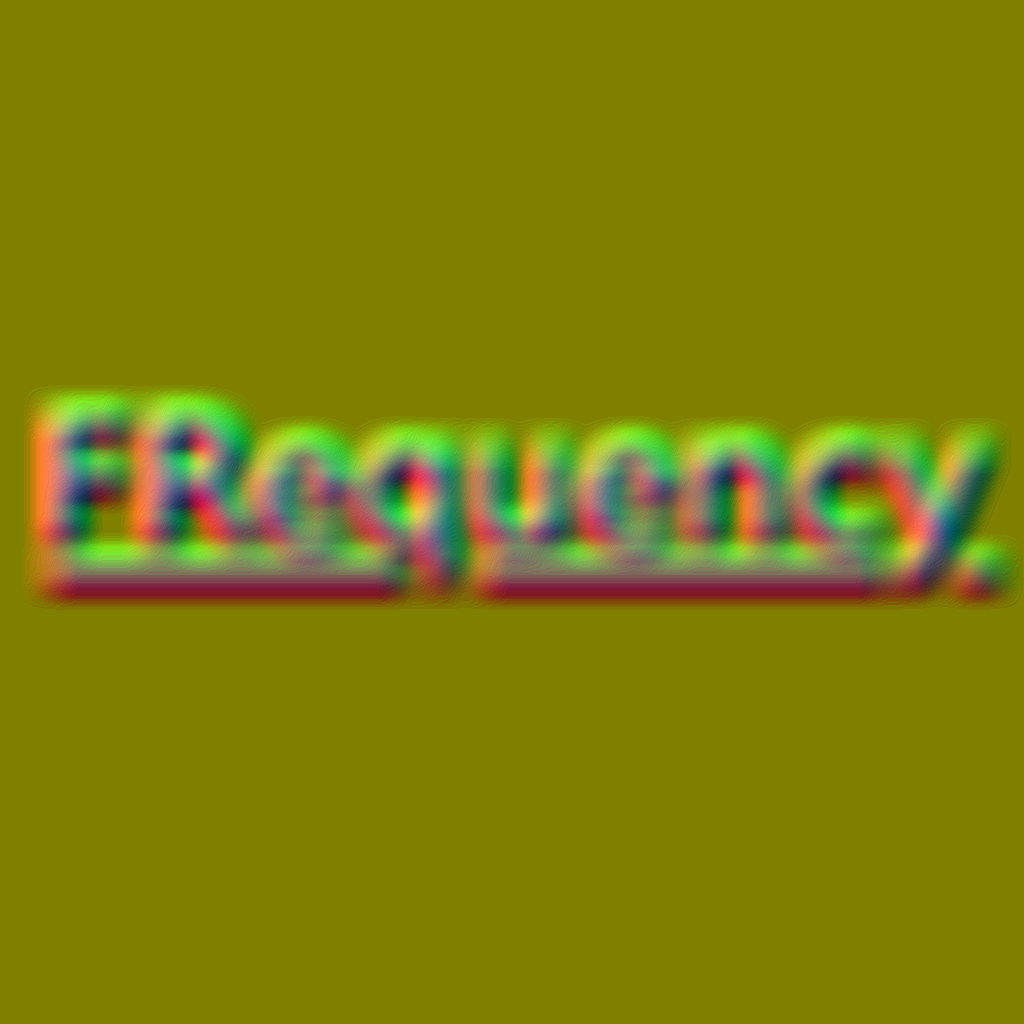
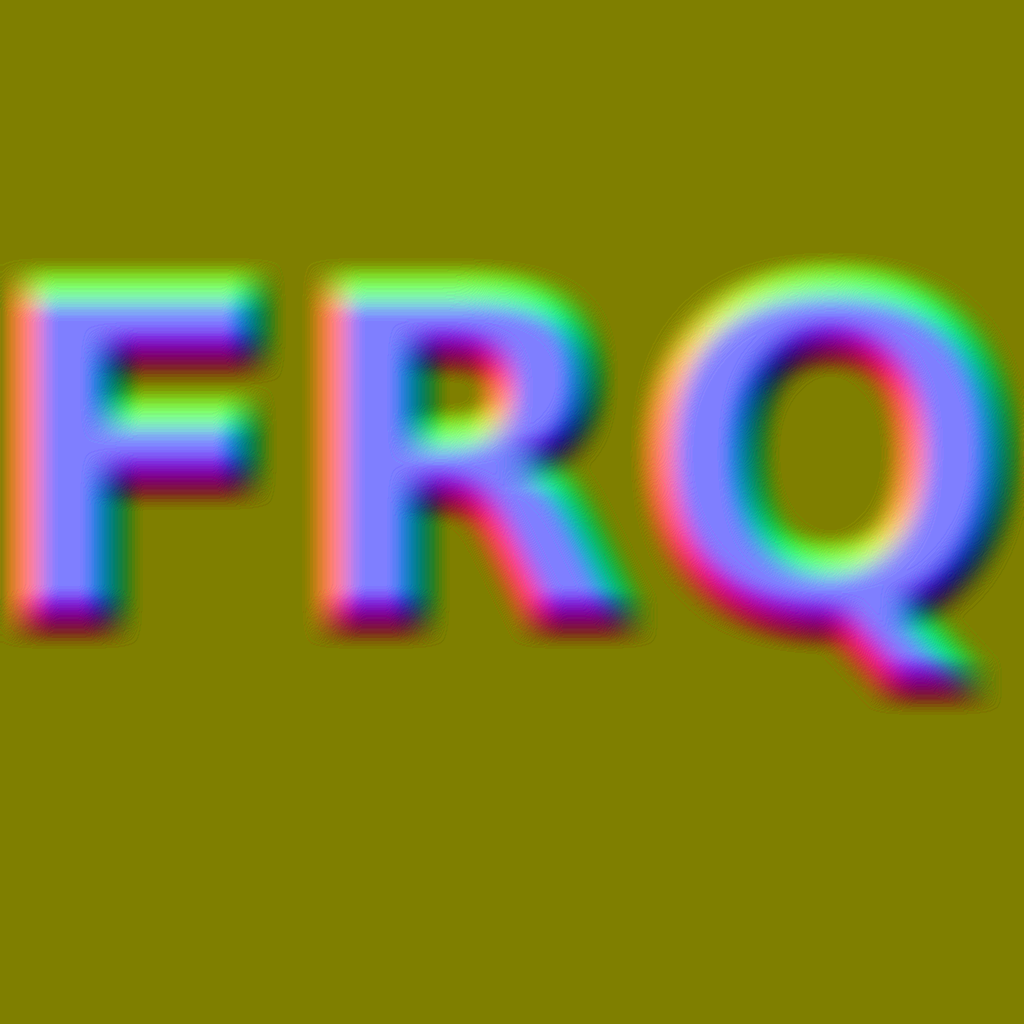
test with model

diff --git a/js/particles.js b/js/particles.js
@@ -42,6 +42,9 @@ var initParticles = function() {
             "uniform sampler2D PosY;",
             "uniform sampler2D PosZ;",
             "uniform sampler2D DistanceMap;",
+            "uniform sampler2D model0;",
+            "uniform sampler2D model1;",
+
             "uniform int freeze;",
             "uniform int forceNewLife;",
             "uniform float weightDistanceMap;",
@@ -63,6 +66,7 @@ var initParticles = function() {
 
             "uniform int introTextScene;",
             "uniform int equalizerScene;",
+
             
             "float life;",
             "float distance;",
@@ -248,7 +252,9 @@ var initParticles = function() {
 
             "vec3 verlet(vec3 prevPosition, vec3 currentPosition, float dt) {",
             "   vec3 center = vec3(0.5,0.5,0.5);",
-            "   currentPosition = center+(modelMatrix * vec4(currentPosition-center,1.0)).xyz;",
+            "   if (introTextScene == 1) { // need to have a flag for the text part",
+            "      currentPosition = center+(modelMatrix * vec4(currentPosition-center,1.0)).xyz;",
+            "   }",
             "   float wind = 1.0;",
             "   vec3 velocity = (currentPosition-prevPosition);",
             "   vec3 acceleration = vec3(0.0, 0.0, 0.0*(-9.81 + 9.5));",
@@ -279,7 +285,20 @@ var initParticles = function() {
             "           if (computeEqualizer(currentPosition, equaBottom1, equaSize1, equalizerLevel1) == 0) {",
             "           if (computeEqualizer(currentPosition, equaBottom2, equaSize2, equalizerLevel2) == 0) {",
             "           computeEqualizer(currentPosition, equaBottom3, equaSize3, equalizerLevel3);",
-            "        } } } }",
+            "        } } } } else {",
+            "          life = 0.6;",
+            "          float v = (FragTexCoord0.y - 0.5)*2.0;",
+            "          float u = FragTexCoord0.x; //floor(FragTexCoord0.x*512.0) + 1.0/256.0; //floor(FragTexCoord0.x*2048.0)/2048.0;",
+            "          u = (floor(u*512.0))/512.0;",
+            "          float x = unpack(texture2D( model0, vec2(u+0.0/2048.0,v)));",
+            "          float y = unpack(texture2D( model0, vec2(u+1.0/2048.0,v)));",
+            "          float z = unpack(texture2D( model0, vec2(u+2.0/2048.0,v)));",
+            "          material = 1.0;",
+            "          distance = 1.0;",
+            "          vec3 centerPos = vec3(x,y,z)-center;",
+            "          vec3 finalPos = center + (modelMatrix * (vec4(centerPos* 0.25, 1.0))).xyz;",
+            "          return finalPos;",
+            "        }",
             "     if ( distance > 0.5) {",
             "       material = distance;",
             "     }",
@@ -360,12 +379,18 @@ var initParticles = function() {
         root.setNodeMask(~0x0);
     };
 
+    var setNeareastFilter = function(texture) {
+        texture.setMinFilter('NEAREST');
+        texture.setMagFilter('NEAREST');
+    };
+
     var textureEqua = new osg.Texture();
     var loadEqua = function() {
         var img = new Image;
         img.onload = loadFR;
         img.src = 'equa_grad.png';
         textureEqua.setImage(img);
+        setNeareastFilter(textureEqua);
     };
 
     var textureFR = new osg.Texture();
@@ -374,6 +399,7 @@ var initParticles = function() {
         img.onload = loadSY;
         img.src = 'FRequency_grad.png';
         textureFR.setImage(img);
+        setNeareastFilter(textureFR);
     };
 
     var textureSY = new osg.Texture();
@@ -382,6 +408,7 @@ var initParticles = function() {
         img.onload = loadBy;
         img.src = 'SynRJ_grad.png';
         textureSY.setImage(img);
+        setNeareastFilter(textureSY);
     };
 
     var textureBy = new osg.Texture();
@@ -390,15 +417,27 @@ var initParticles = function() {
         img.onload = loadTitle;
         img.src = 'By_grad.png';
         textureBy.setImage(img);
+        setNeareastFilter(textureBy);
     };
 
     var textureTitle = new osg.Texture();
     var loadTitle = function() {
         var img = new Image;
-        img.onload = ready;
+        img.onload = loadModel0;
         img.src = 'Title_grad.png';
         textureTitle.setImage(img);
+        setNeareastFilter(textureTitle);
     };
+
+    var textureModel0 = new osg.Texture();
+    var loadModel0 = function() {
+        var img = new Image;
+        img.onload = ready;
+        img.src = 'model0.png';
+        textureModel0.setImage(img);
+        setNeareastFilter(textureModel0);
+    };
+
 
     var defaultImage = new Image();
     defaultImage.onload = loadEqua;
@@ -487,6 +526,8 @@ var initParticles = function() {
         var currentPosZ = osg.Uniform.createInt1(5,'PosZ');
 
         var distanceMap = osg.Uniform.createInt1(6,'DistanceMap');
+        var model0 = osg.Uniform.createInt1(7,'model0');
+        var model1 = osg.Uniform.createInt1(8,'model1');
 
         var viewport = new osg.Viewport(0,0,textureSize[0],textureSize[1]);
 
@@ -541,6 +582,9 @@ var initParticles = function() {
             stateset.addUniform(uniformEqualizerLevel2);
             stateset.addUniform(uniformEqualizerLevel3);
             stateset.addUniform(uniformWindIntro);
+
+            stateset.addUniform(model0);
+            stateset.addUniform(model1);
 
             var idx;
             idx = (index + 1)%3;
@@ -739,7 +783,8 @@ var initParticles = function() {
             } else if (this.nbUpdate == 3) {
                 var audioSound = document.getElementById('zik');
                 audioSound.play();
-                //audioSound.currentTime = 13.0;
+                audioSound.currentTime = 14.757;
+
             } else {
 
                 weightVelocityField.set([0.0* (0.5 + 0.5*Math.cos(t*0.2))]);
@@ -756,29 +801,28 @@ var initParticles = function() {
                 if (timeObjects.IntroScene.value > 0.5) {
                     uniformIntroTextScene.get()[0] = 1.0; uniformIntroTextScene.dirty();
                     uniformWindIntro.get()[0] = timeObjects.WindIntro.value; uniformWindIntro.dirty();
-
-                    if (timeObjects.Text1.value > 0.0) {
-                        this.physics.root.getOrCreateStateSet().setTextureAttributeAndMode(6, textureTitle, osg.StateAttribute.ON | osg.StateAttribute.OVERRIDE);
-
+                    if (timeObjects.Text4.value > 0.0) {
+                        this.physics.root.getOrCreateStateSet().setTextureAttributeAndMode(6, textureFR, osg.StateAttribute.ON | osg.StateAttribute.OVERRIDE);
                         var vec = [0,0,0];
-                        vec[timeObjects.Text1.axis] = timeObjects.Text1.axisDirection;
-                        osg.Matrix.makeRotate((1.0-timeObjects.Text1.value)*0.02, vec[0],vec[1],vec[2], modelMatrix.get());
+                        vec[timeObjects.Text4.axis] = timeObjects.Text4.axisDirection;
+                        osg.Matrix.makeRotate((1.0-timeObjects.Text4.value)*0.02, vec[0],vec[1],vec[2], modelMatrix.get());
+                        //osg.log("text4 " + t);
+                    } else if (timeObjects.Text3.value > 0.0) {
+                        this.physics.root.getOrCreateStateSet().setTextureAttributeAndMode(6, textureSY, osg.StateAttribute.ON | osg.StateAttribute.OVERRIDE);
+                        var vec = [0,0,0];
+                        vec[timeObjects.Text3.axis] = timeObjects.Text3.axisDirection;
+                        osg.Matrix.makeRotate((1.0-timeObjects.Text3.value)*0.02, vec[0],vec[1],vec[2], modelMatrix.get());
                     } else if (timeObjects.Text2.value > 0.0) {
                         this.physics.root.getOrCreateStateSet().setTextureAttributeAndMode(6, textureBy, osg.StateAttribute.ON | osg.StateAttribute.OVERRIDE);
                         var vec = [0,0,0];
                         vec[timeObjects.Text2.axis] = timeObjects.Text2.axisDirection;
                         osg.Matrix.makeRotate((1.0-timeObjects.Text2.value)*0.02, vec[0],vec[1],vec[2], modelMatrix.get());
-                    }
-                    if (timeObjects.Text3.value > 0.0) {
-                        this.physics.root.getOrCreateStateSet().setTextureAttributeAndMode(6, textureSY, osg.StateAttribute.ON | osg.StateAttribute.OVERRIDE);
+                    } else if (timeObjects.Text1.value > 0.0) {
+                        this.physics.root.getOrCreateStateSet().setTextureAttributeAndMode(6, textureTitle, osg.StateAttribute.ON | osg.StateAttribute.OVERRIDE);
+
                         var vec = [0,0,0];
-                        vec[timeObjects.Text3.axis] = timeObjects.Text3.axisDirection;
-                        osg.Matrix.makeRotate((1.0-timeObjects.Text3.value)*0.02, vec[0],vec[1],vec[2], modelMatrix.get());
-                    } else if (timeObjects.Text4.value > 0.0) {
-                        this.physics.root.getOrCreateStateSet().setTextureAttributeAndMode(6, textureFR, osg.StateAttribute.ON | osg.StateAttribute.OVERRIDE);
-                        var vec = [0,0,0];
-                        vec[timeObjects.Text4.axis] = timeObjects.Text4.axisDirection;
-                        osg.Matrix.makeRotate((1.0-timeObjects.Text4.value)*0.02, vec[0],vec[1],vec[2], modelMatrix.get());
+                        vec[timeObjects.Text1.axis] = timeObjects.Text1.axisDirection;
+                        osg.Matrix.makeRotate((1.0-timeObjects.Text1.value)*0.02, vec[0],vec[1],vec[2], modelMatrix.get());
                     }
 
                     weightDistanceMap.set([0.8]);
@@ -789,10 +833,12 @@ var initParticles = function() {
                 }
 
                 if (timeObjects.EqualizerScene.value > 0.5) {
+                    //osg.log("EqualizerScene " + t);
                     uniformEqualizerScene.get()[0] = 1; uniformEqualizerScene.dirty();
                     uniformIntroTextScene.get()[0] = 0.0; uniformIntroTextScene.dirty();
                     
                     this.physics.root.getOrCreateStateSet().setTextureAttributeAndMode(6, textureEqua, osg.StateAttribute.ON | osg.StateAttribute.OVERRIDE);
+                    this.physics.root.getOrCreateStateSet().setTextureAttributeAndMode(7, textureModel0, osg.StateAttribute.ON | osg.StateAttribute.OVERRIDE);
 
                     uniformEqualizer.get()[0] = 1.0; uniformEqualizer.dirty();
                     
@@ -807,6 +853,11 @@ var initParticles = function() {
                     //forceNewLife.set([1]);
                     weightDistanceMap.set([1.0]);
                     freeze.set([1.0]);
+
+                    var vec = [0,0,0];
+                    vec[timeObjects.ModelRotate.axis] = timeObjects.ModelRotate.axisDirection;
+                    osg.Matrix.makeRotate(t, vec[0],vec[1],vec[2], modelMatrix.get());
+                    modelMatrix.dirty();
                 }
             }
 

diff --git a/js/timefunction.js b/js/timefunction.js
@@ -128,7 +128,7 @@ var timeSetup = function(eventData) {
 
     dictObject.WindIntro = { value: 0.0};
     var windStartValue = 6.0;
-    var windWaitValue = 0.7;
+    var windWaitValue = 0.4;
     var windDurationRestore = 0.5;
     anim("WindIntro",dictObject.WindIntro).to(
         0.02,
@@ -137,7 +137,7 @@ var timeSetup = function(eventData) {
         Timeline.Easing.Cubic.EaseIn
     ).to(
         windWaitValue,
-        { value:0.0},
+        { value:1.0},
         windDurationRestore
     );
     anim("WindIntro",dictObject.WindIntro).to(
@@ -147,7 +147,7 @@ var timeSetup = function(eventData) {
         Timeline.Easing.Cubic.EaseIn
     ).to(
         windWaitValue,
-        { value:0.0},
+        { value:1.0},
         windDurationRestore
     );
     anim("WindIntro",dictObject.WindIntro).to(
@@ -157,7 +157,7 @@ var timeSetup = function(eventData) {
         Timeline.Easing.Cubic.EaseIn
     ).to(
         windWaitValue,
-        { value:0.0},
+        { value:1.0},
         windDurationRestore
     );
     anim("WindIntro",dictObject.WindIntro).to(
@@ -167,7 +167,7 @@ var timeSetup = function(eventData) {
         Timeline.Easing.Cubic.EaseIn
     ).to(
         windWaitValue,
-        { value:0.0},
+        { value:1.0},
         windDurationRestore
     );
 
@@ -237,7 +237,7 @@ var timeSetup = function(eventData) {
 
     dictObject.Text3 = { value: 0.0};
     anim("Text3",dictObject.Text3).to(
-        7.45,
+        7.40,
         { value:1.0 },
         selectAxis,
         0.1,
@@ -321,6 +321,21 @@ var timeSetup = function(eventData) {
         Timeline.Easing.Linear.None
     ).to(
         59.0,
+        { value:0.0},
+        0.00001
+    );
+
+
+
+    dictObject.ModelRotate = { value: 0.0};
+    anim("ModelRotate",dictObject.ModelRotate).to(
+        14.756,
+        { value:1.0 },
+        selectAxis,
+        0.1,
+        Timeline.Easing.Cubic.EaseIn
+    ).to(
+        30.0,
         { value:0.0},
         0.00001
     );

diff --git a/index.html b/index.html
@@ -8,22 +8,12 @@
     padding:0;
     background:white;
     }
+
     #View {
     position: absolute;
     }
 
-body:after { 
--moz-box-shadow: inset 0 0 10em #666;  
- -webkit-box-shadow: inset 0 0 10em #666;   
- box-shadow: inset 0 0 10em #666;
- position: absolute;
- top: 0;
- left: 0;
- width: 100%;
- height: 100%;
- z-index: 2;
- content: "";
-}
+
   </style>
   <script src="js/osg-debug.js"></script>
   <script src="js/main2.js"></script>
